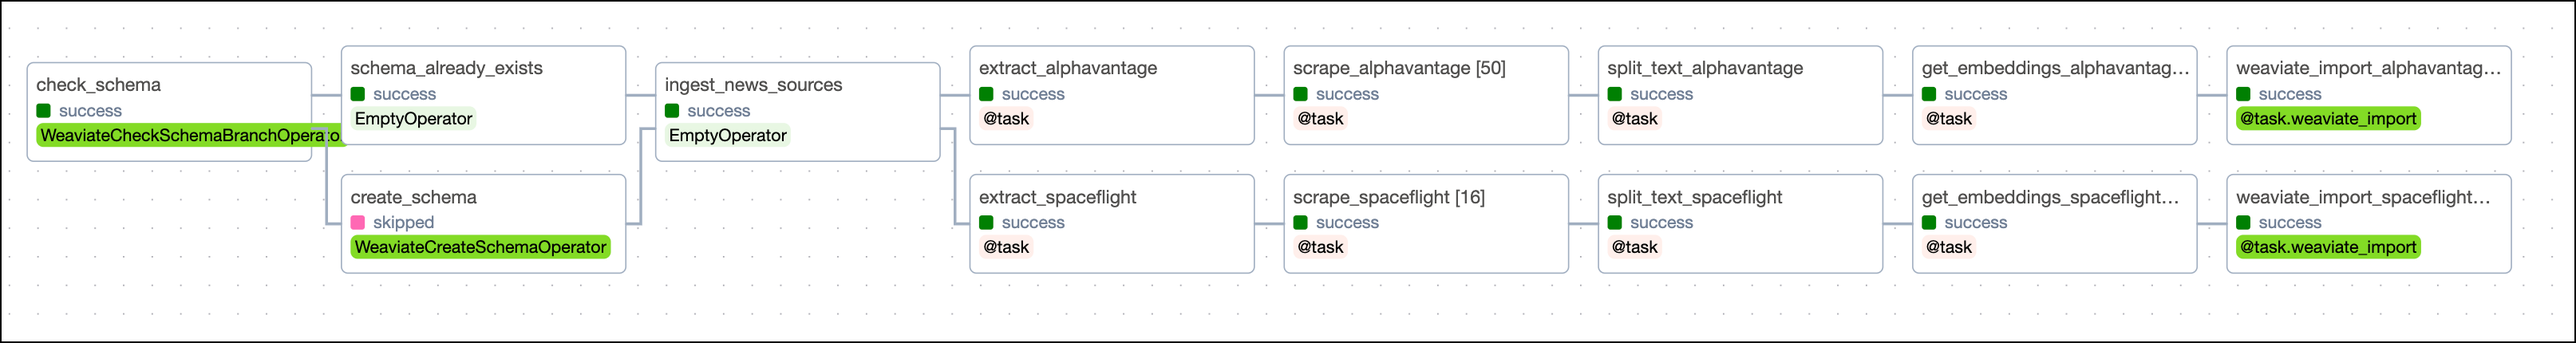
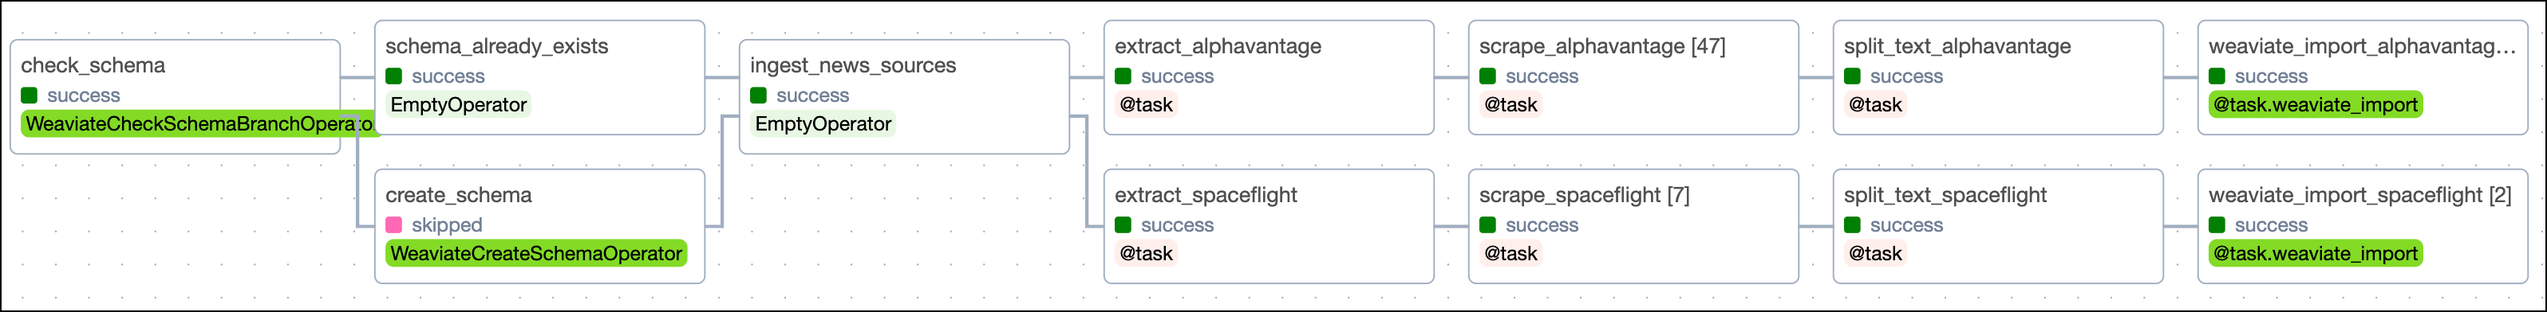
Michael input edits

diff --git a/learn/use-case-airflow-llm-rag-finance.md b/learn/use-case-airflow-llm-rag-finance.md
@@ -10,7 +10,7 @@ import TabItem from '@theme/TabItem';
 
 In the emerging field of Large Language Model Operations (LLMOps), retrieval-augmented generation (RAG) has quickly become a key way to tailor large langage model (LLM) applications to domain specific queries. 
 
-This use case shows how to use Weaviate and Airflow to create an automatic RAG pipeline ingesting and embedding data from two sources of news articles. ([Alpha Vantage](https://www.alphavantage.co/) and [Spaceflight News](https://www.spaceflightnewsapi.net/)) are used as a knowledge base for a [GPT-4](https://openai.com/gpt-4) powered [Streamlit](https://streamlit.io/) application giving trading advice. The pipeline structure follows Astronomers' RAG reference architecture, [Ask Astro](https://github.com/astronomer/ask-astro).
+This use case shows how to use Weaviate and Airflow to create an automatic RAG pipeline ingesting and embedding data from two sources of news articles ([Alpha Vantage](https://www.alphavantage.co/) and [Spaceflight News](https://www.spaceflightnewsapi.net/)) as a knowledge base for a [GPT-4](https://openai.com/gpt-4) powered [Streamlit](https://streamlit.io/) application giving trading advice. The pipeline structure follows Astronomers' RAG reference architecture, [Ask Astro](https://github.com/astronomer/ask-astro).
 
 :::info Disclaimer
 
@@ -33,13 +33,11 @@ Before trying this example, make sure you have:
 - The [Astro CLI](https://docs.astronomer.io/astro/cli/overview).
 - [Docker Desktop](https://www.docker.com/products/docker-desktop).
 - An [Alpha Vantage API key](https://www.alphavantage.co/support/#api-key). A free tier is available.
-- An [OpenAI API key](https://platform.openai.com/docs/api-reference/introduction). You will need to have an OpenAI account with credits to use the API.
+- An [OpenAI API key](https://platform.openai.com/docs/api-reference/introduction). Note that you either need to have an OpenAI API key of [at least tier 1](https://platform.openai.com/docs/guides/rate-limits/usage-tiers) or switch the DAG to use local embeddings by setting `EMBEDD_LOCALLY` to `True`. 
 
 ## Clone the project
 
 Clone the example project from the [Astronomer GitHub](https://github.com/astronomer/use-case-airflow-llm-rag-finance). To keep your credentials secure when you deploy this project to your own git repository, make sure to create a file called `.env` with the contents of the `.env_example` file in the project root directory. You need to provide your own API key for the [Alpha Vantage API](https://www.alphavantage.co/support/#api-key) (`ALPHAVANTAGE_KEY`) and your own [OpenAI API key](https://platform.openai.com/docs/api-reference/introduction) in the `AIRFLOW_CONN_WEAVIATE_TEST` connection and as `OPENAI_API_KEY`.
-
-Note that you either need to have an OpenAI API key of [at least tier 1](https://platform.openai.com/docs/guides/rate-limits/usage-tiers) or switch the DAG to use local embeddings by setting `EMBEDD_LOCALLY` to `True`. 
 
 The repository is configured to spin up and use a local Weaviate instance. If you'd like to use an existing Weaviate instance, change the `host` parameter in the `AIRFLOW_CONN_WEAVIATE_TEST` connection in the `.env` file.
 
@@ -294,9 +292,9 @@ def split_text(records):
     return df.to_dict(orient="records")
 ```
 
-After creating chunks of text, the last step of the pipeline is to ingest the data into Weaviate. You can either compute the vector embeddings locally using the `get_embeddings` function at [`include/tasks/embedd_locally.py`](https://github.com/astronomer/use-case-airflow-llm-rag-finance/blob/main/include/tasks/embedd_locally.py), or let Weaviate create the embeddings for you using [`text2vec-openai`](https://weaviate.io/developers/weaviate/modules/retriever-vectorizer-modules/text2vec-openai). This behavior can be toggled by setting `EMBEDD_LOCALLY` to `True` or `False` at the top of the DAG file. 
+After creating chunks of text, the last step of the pipeline is to ingest the data into Weaviate. You can either compute the vector embeddings locally using the `import_data_local_embed` function, or use the `import_data` function and let Weaviate create the embeddings for you using [`text2vec-openai`](https://weaviate.io/developers/weaviate/modules/retriever-vectorizer-modules/text2vec-openai). Both functions are located in [`include/tasks/ingest.py`](https://github.com/astronomer/use-case-airflow-llm-rag-finance/blob/main/include/tasks/ingest.py). This behavior can be toggled by setting `EMBEDD_LOCALLY` to `True` or `False` at the top of the DAG file. 
 
-The embedding task is [dynamically mapped](dynamic-tasks.md) over the list of dictionaries of news article chunks, creating one mapped task instance per chunk.
+The ingest task uses the `@task.weaviate_import` decorator and is [dynamically mapped](dynamic-tasks.md) over the list of dictionaries of news article chunks, creating one mapped task instance per chunk.
 
 ```python
 
@@ -305,26 +303,49 @@ EMBEDD_LOCALLY = True
 # ...
 
 if EMBEDD_LOCALLY:
-    embeddings = task(
-        embedd_locally.get_embeddings,
-        task_id=f"get_embeddings_{news_source['name']}",
-    ).expand(record=split_texts)
+    task.weaviate_import(
+        ingest.import_data_local_embed,
+        task_id=f"weaviate_import_{news_source['name']}",
+        weaviate_conn_id=WEAVIATE_CONN_ID,
+        retries=3,
+        retry_delay=30,
+        trigger_rule="all_done",
+    ).partial(class_name="NEWS").expand(record=split_texts)
+else:
+    task.weaviate_import(
+        ingest.import_data,
+        task_id=f"weaviate_import_{news_source['name']}",
+        weaviate_conn_id=WEAVIATE_CONN_ID,
+        retries=3,
+        retry_delay=30,
+    ).partial(class_name="NEWS").expand(record=split_texts)
 ```
 
-If you choose to embed locally, an open-source model specialized for financial information, [FinBERT](https://huggingface.co/ProsusAI/finbert), is retrieved from [HuggingFace](https://huggingface.co/). 
+The ingestion function passed to the `@task.weaviate_import` decorator differs depending on whether the embeddings are pre-computed locally or not.
 
-:::info
+<Tabs
+    defaultValue="localembedd"
+    groupId= "project-code"
+    values={[
+        {label: 'Local embedding', value: 'localembedd'},
+        {label: 'Cloud-base embedding during ingest', value: 'cloudembedd'},
+    ]}>
 
-Local embedding is much slower than embedding via a cloud based vectorizer. Astronomer recommends using a [cloud based vectorizer](https://weaviate.io/developers/weaviate/modules/retriever-vectorizer-modules) for production use cases.
+<TabItem value="localembedd">
 
-:::
+If you choose to embed locally, an open-source model specialized for financial information, [FinBERT](https://huggingface.co/ProsusAI/finbert), is retrieved from [HuggingFace](https://huggingface.co/). Note that for existing embeddings, the `embedding_column` parameter of the dictionary returned by the ingestion function needs to be set to the name of the column containing the embeddings (`vectors` in this example).  
 
 ```python
-from transformers import BertTokenizer, BertModel
-from torch import cuda, no_grad
-
-
-def get_embeddings(record):
+def import_data_local_embed(
+    record,
+    class_name: str,
+    upsert=False,
+    embedding_column="vector",
+    uuid_source_column="url",
+    error_threshold=0,
+    verbose=False,
+):
+    print("Embedding locally.")
     text = record["full_text"]
     tokenizer = BertTokenizer.from_pretrained("ProsusAI/finbert")
     model = BertModel.from_pretrained("ProsusAI/finbert")
@@ -350,50 +371,11 @@ def get_embeddings(record):
         embeddings = mean_tensor.numpy()
 
     record["vectors"] = embeddings.tolist()
-    return record
-```
 
-The import task ingesting the vector embeddings into Weaviate uses the `@task.weaviate_import` decorator with an import function stored in [`include/tasks/ingest.py](https://github.com/astronomer/use-case-airflow-llm-rag-finance/blob/main/include/tasks/ingest.py). One mapped task instance is created for each news article chunk.
-
-```python
-task.weaviate_import(
-    ingest.import_data_local_embed,
-    task_id=f"weaviate_import_{news_source['name']}",
-    weaviate_conn_id=WEAVIATE_CONN_ID,
-    retries=3,
-    retry_delay=30,
-    trigger_rule="all_done",
-).partial(class_name="NEWS").expand(record=embeddings)
-```
-
-The ingestion function passed to the `@task.weaviate_import` decorator differs depending on whether the embeddings were pre-computed locally or not.
-
-<Tabs
-    defaultValue="localembedd"
-    groupId= "project-code"
-    values={[
-        {label: 'Ingest existing embeddings', value: 'localembedd'},
-        {label: 'Embedding during ingest', value: 'cloudembedd'},
-    ]}>
-
-<TabItem value="localembedd">
-
-For existing embeddings, the `embedding_column` parameter of the dictionary returned by the ingestion function needs to be set to the name of the column containing the embeddings (`vectors` in this example).  
-
-```python
-def import_data_local_embed(
-    record,
-    class_name: str,
-    upsert=False,
-    embedding_column="vector",
-    uuid_source_column="url",
-    error_threshold=0,
-    verbose=False,
-):
     df = pd.DataFrame(record, index=[0])
 
-    df["uuid"] = df[uuid_source_column].apply(
-        lambda x: str(uuid.uuid5(uuid.NAMESPACE_URL, x))
+    df["uuid"] = df.apply(
+        lambda x: generate_uuid5(identifier=x.to_dict(), namespace=class_name), axis=1
     )
 
     print(f"Passing {len(df)} pre-embedded objects for import.")
@@ -408,6 +390,12 @@ def import_data_local_embed(
         "verbose": verbose,
     }
 ```
+
+:::info
+
+Local embedding is much slower than embedding via a cloud based vectorizer. Astronomer recommends using a [cloud based vectorizer](https://weaviate.io/developers/weaviate/modules/retriever-vectorizer-modules) for production use cases.
+
+:::
 
 </TabItem>
 
@@ -428,8 +416,8 @@ def import_data(
 ):
     df = pd.DataFrame(record, index=[0])
 
-    df["uuid"] = df[uuid_source_column].apply(
-        lambda x: str(uuid.uuid5(uuid.NAMESPACE_URL, x))
+    df["uuid"] = df.apply(
+        lambda x: generate_uuid5(identifier=x.to_dict(), namespace=class_name), axis=1
     )
 
     print(f"Passing {len(df)} objects for embedding and import.")
